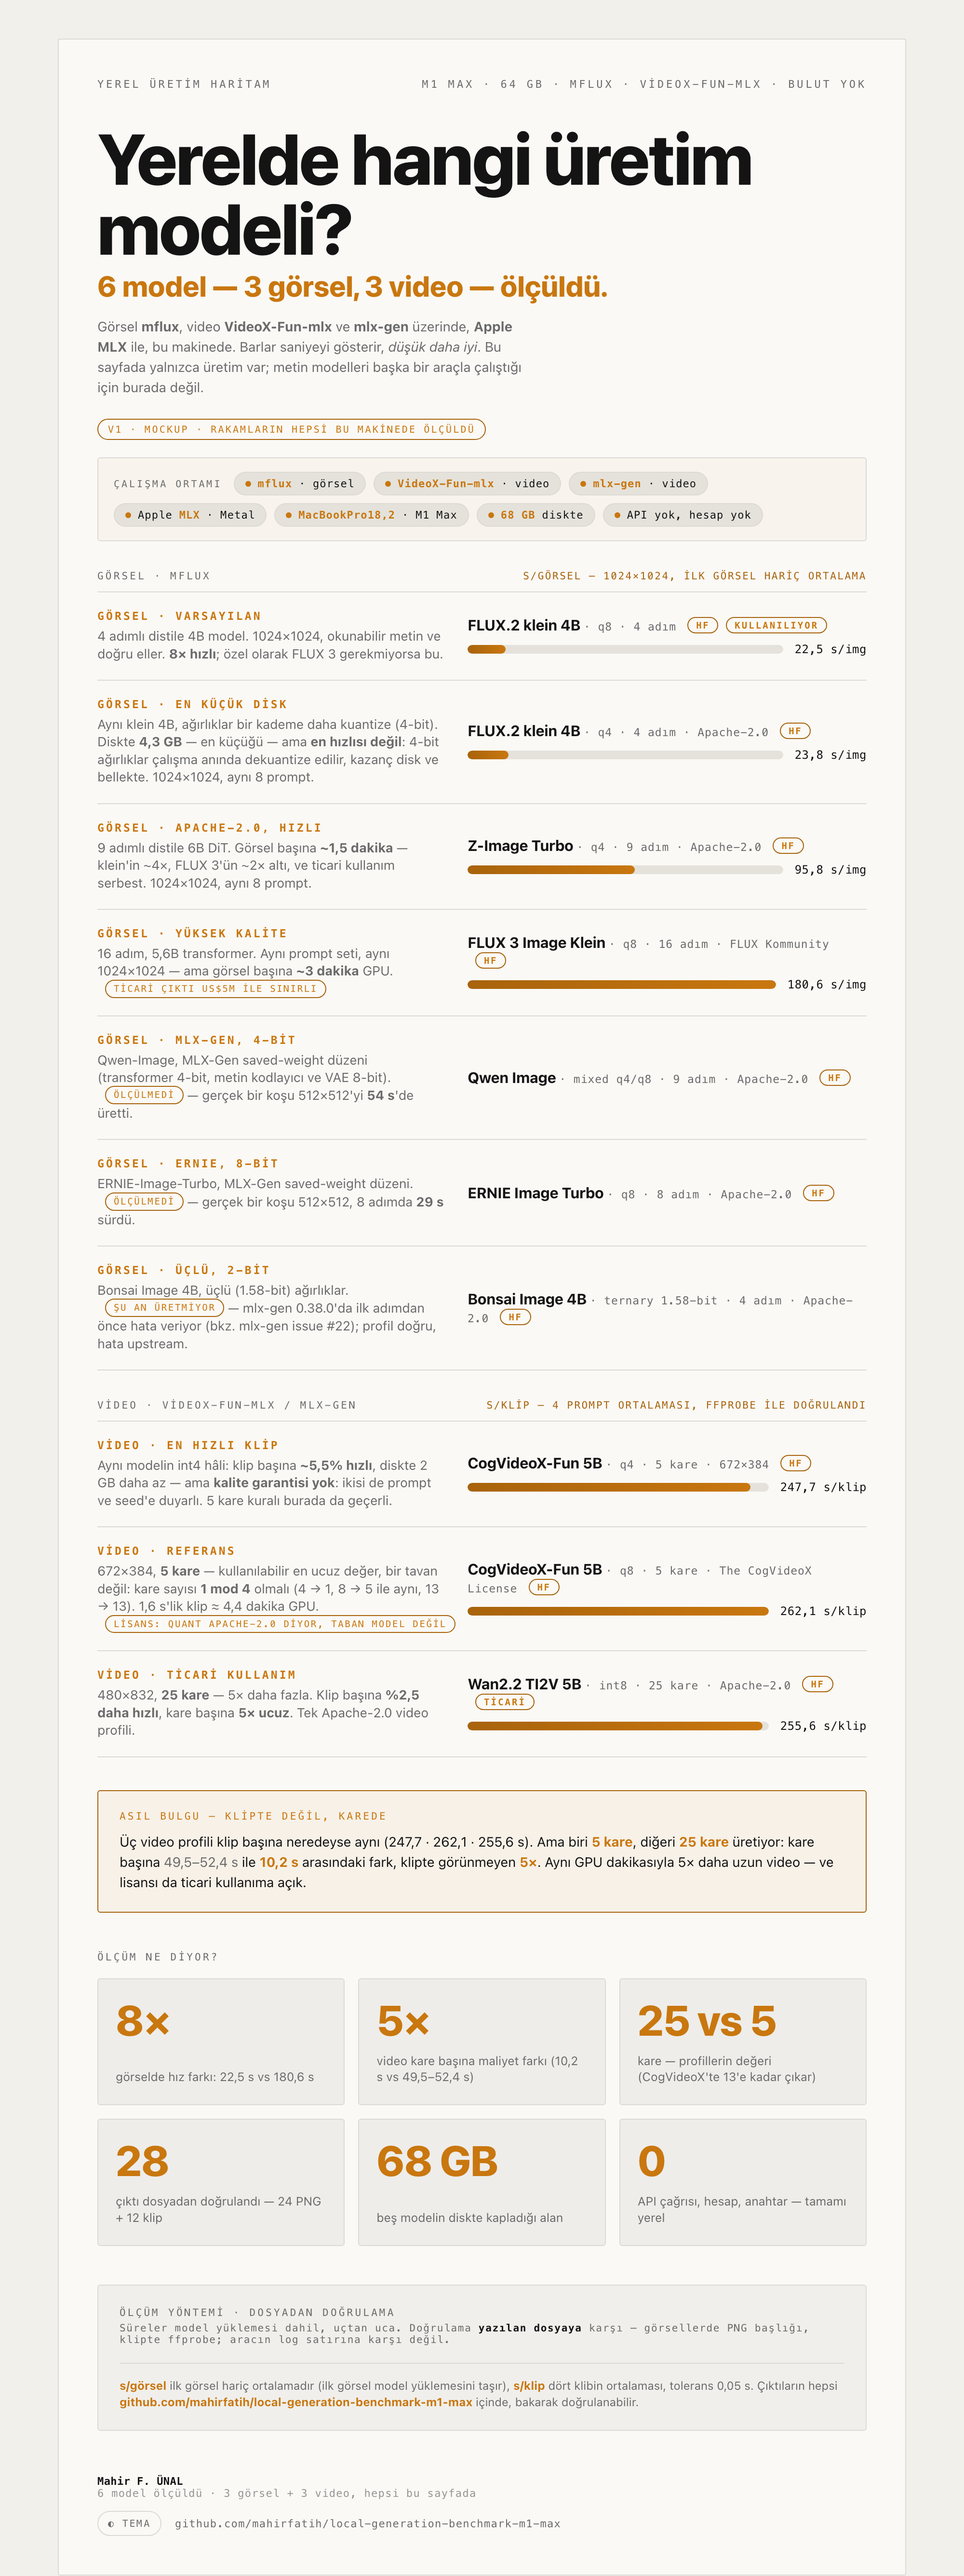
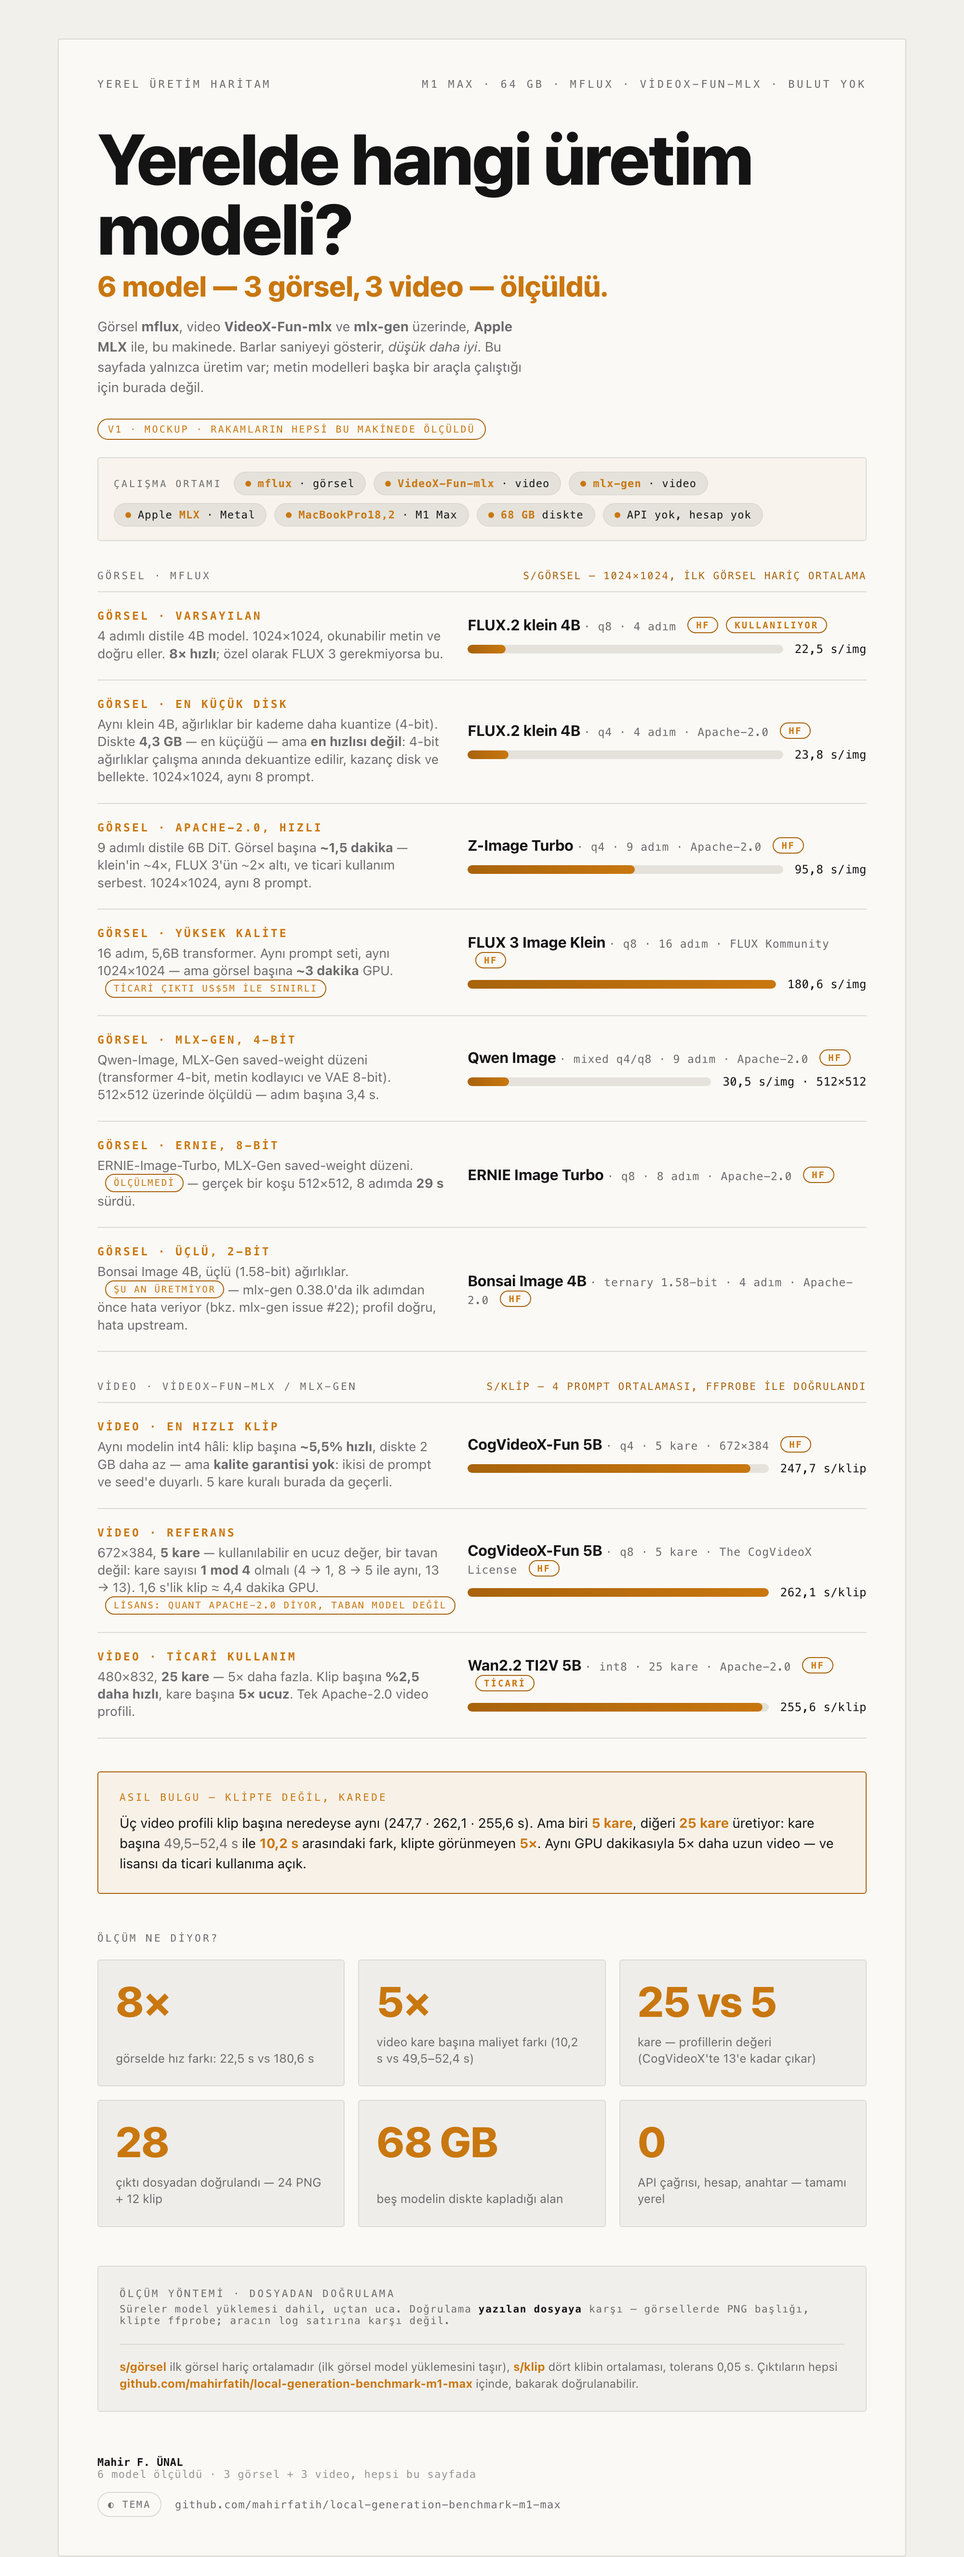
feat: benchmark qwen-image-4bit over the eight prompts
8/8 images written and verified at 512x512, 9 steps: 30.5 s/img and
3.4 s/step, mean with the first dropped. The eight PNGs, the evidence
page and the raw seconds are committed; test.sh step 9 derives the
published figure from them, so the number cannot drift from the data.

Qwen renders a quarter of the pixels the mflux rows do, so the README
compares it per step rather than per image.

diff --git a/docs/diagrams/model-map/model-map.html b/docs/diagrams/model-map/model-map.html
@@ -260,10 +260,11 @@
         <div class="task">
           <div class="k">Görsel · MLX-Gen, 4-bit</div>
           <div class="d">Qwen-Image, MLX-Gen saved-weight düzeni (transformer 4-bit, metin kodlayıcı ve VAE
-            8-bit). <span class="warn">ölçülmedi</span> — gerçek bir koşu 512×512'yi <b>54 s</b>'de üretti.</div>
+            8-bit). 512×512 üzerinde ölçüldü — adım başına 3,4 s.</div>
         </div>
         <div class="pick">
           <div class="m">Qwen Image <span class="tiny">· mixed q4/q8 · 9 adım · Apache-2.0</span> <a class="hf" href="https://huggingface.co/AbstractFramework/qwen-image-4bit">HF</a></div>
+          <div class="bar"><div class="track"><div class="fill" style="width:17%"></div></div><span class="val">30,5 s/img · 512×512</span></div>
         </div>
       </div>
 

diff --git a/docs/reference/PROFILES.md b/docs/reference/PROFILES.md
@@ -80,12 +80,14 @@ two FLUX profiles keep the `float16` value from the run that produced their figu
 
 ## Image generation through mlx-gen (not mflux)
 
-Two image models ship in
+Three image models ship in
 [`profiles/mflux-profiles.json`](../../profiles/mflux-profiles.json) — the file
 groups *image* models, not mflux ones — but run through
 [`mlx-gen`](https://github.com/lpalbou/mlx-gen)'s `mlxgen` console script, with
-their own `invoke` argv. They are **not** benchmarked yet: their timings and peak
-memory are unmeasured, and the app shows them as such rather than quoting a guess.
+their own `invoke` argv. `qwen-image-4bit` is now **benchmarked** over the same 8
+prompts: **30.5 s/img** (3.4 s/step, 9 steps) at 512×512 — a quarter of the pixels
+the mflux rows render, so its image time is not comparable to theirs, only its
+per-step cost is. ERNIE and Bonsai stay unmeasured for now.
 
 | Setting | `bonsai-image-ternary-2bit` | `ernie-image-turbo-q8` | `qwen-image-4bit` |
 | :--- | ---: | ---: | ---: |
@@ -139,8 +141,11 @@ row until that is fixed, not a misconfigured one. It is reported as
 [mlx-gen issue #22](https://github.com/lpalbou/mlx-gen/issues/22).
 
 `ernie-image-turbo-q8` and `qwen-image-4bit` were each run end to end on the same
-machine: ERNIE 29 s for 512×512 at 8 steps, Qwen Image 54 s for 512×512 at 9
-steps.
+machine. ERNIE produced 512×512 in 29 s at 8 steps in a smoke run;
+`qwen-image-4bit` is benchmarked over the full 8-prompt set: **30.5 s/img** and
+**3.4 s/step** at 512×512, 9 steps, all 8 images written and verified
+(`reference/image-benchmark-qwen.json`,
+[`evidence/image-benchmark-qwen.md`](../../evidence/image-benchmark-qwen.md)).
 
 ## Video profiles
 

diff --git a/evidence/image-benchmark-qwen.md b/evidence/image-benchmark-qwen.md
@@ -1,0 +1,16 @@
+# Image generation — seconds per image
+
+**Date:** 2026-11-21. One `mflux-generate-*` process per prompt, run through [mflux](https://github.com/filipstrand/mflux), which is separate from the oMLX text server. Time is end-to-end wall clock, **model load included** (the CLI is one-shot).
+
+| Model (profile) | Licence | Image | s/img | s/step | Size | OK |
+|---|---|---:|---:|---:|---|:---:|
+| `AbstractFramework/qwen-image-4bit` (qwen-image-4bit) | apache-2.0 | `photoreal-market` | 29.46 | 3.27 | 512×512, 0.4 MB | ✅ |
+| `AbstractFramework/qwen-image-4bit` (qwen-image-4bit) | apache-2.0 | `portrait-hands` | 30.62 | 3.4 | 512×512, 0.3 MB | ✅ |
+| `AbstractFramework/qwen-image-4bit` (qwen-image-4bit) | apache-2.0 | `text-poster` | 30.57 | 3.4 | 512×512, 0.3 MB | ✅ |
+| `AbstractFramework/qwen-image-4bit` (qwen-image-4bit) | apache-2.0 | `composition-stilllife` | 30.67 | 3.41 | 512×512, 0.3 MB | ✅ |
+| `AbstractFramework/qwen-image-4bit` (qwen-image-4bit) | apache-2.0 | `stylised-risograph` | 30.48 | 3.39 | 512×512, 0.4 MB | ✅ |
+| `AbstractFramework/qwen-image-4bit` (qwen-image-4bit) | apache-2.0 | `product-headphones` | 30.33 | 3.37 | 512×512, 0.2 MB | ✅ |
+| `AbstractFramework/qwen-image-4bit` (qwen-image-4bit) | apache-2.0 | `photoreal-architecture` | 30.36 | 3.37 | 512×512, 0.3 MB | ✅ |
+| `AbstractFramework/qwen-image-4bit` (qwen-image-4bit) | apache-2.0 | `text-signage` | 30.69 | 3.41 | 512×512, 0.3 MB | ✅ |
+
+_s/img is what a person waits for one finished image on this machine. Because each CLI call reloads the model, it is a cold number; the steady-state per-step cost is the `s/step` column._

diff --git a/CHANGELOG.md b/CHANGELOG.md
@@ -13,12 +13,14 @@ date-based snapshots rather than semver releases.
   image models, so they live in the image file, but they run through **`mlx-gen`**,
   not mflux — each carries its own `invoke` and an explicit
   `"runner": "mlx-gen"`, and none takes `--base-model` or `--compute-precision`.
-  **Not benchmarked yet**: no timing or peak-memory row, and the tables leave them
-  out rather than guessing.
   - `qwen-image-4bit` is Qwen-Image in the MLX mixed q4/q8 saved-weight layout —
-    the transformer at 4-bit, the text encoder and VAE at 8-bit. A real run on
-    this machine produced a 512×512 image in **54 s** at 9 steps.
-  - `ernie-image-turbo-q8` was run end to end at **29 s** for 512×512 at 8 steps.
+    the transformer at 4-bit, the text encoder and VAE at 8-bit. **Benchmarked**
+    over the full 8-prompt set at 512×512: **30.5 s/img**, 3.4 s/step, 9 steps, all
+    8 images written and verified —
+    [`reference/image-benchmark-qwen.json`](reference/image-benchmark-qwen.json) and
+    [`evidence/image-benchmark-qwen.md`](evidence/image-benchmark-qwen.md).
+  - `ernie-image-turbo-q8` was run end to end at **29 s** for 512×512 at 8 steps
+    (a smoke run, not a benchmark row).
   - **`bonsai-image-ternary-2bit` does not run** on `mlx-gen 0.38.0`: the Bonsai
     model's own initializer never builds `compiled_predict_cache`, which the
     `Flux2Klein` generation path it inherits then reads, so every run raises

diff --git a/README.md b/README.md
@@ -207,6 +207,11 @@ written PNG verified.
 | [`z-image-turbo-mflux-q4`](https://huggingface.co/mflux-community/z-image-turbo-mflux-q4) (`z-image-turbo-q4`) | Apache-2.0 | 95.8 | 10.6 | 9 | 1024×1024 |
 | [`flux-3-image-klein-base-mflux-q8`](https://huggingface.co/mflux-community/flux-3-image-klein-base-mflux-q8) (`flux3-klein-q8`) | FLUX Kommunity | 180.6 | 11.3 | 16 | 1024×1024 |
 
+`qwen-image-4bit` is measured too, but at **512×512** rather than 1024×1024, so it is
+not in the table above: `AbstractFramework/qwen-image-4bit` runs through **mlx-gen**,
+not mflux, and its **30.5 s/img** (3.4 s/step, 9 steps) buys a quarter of the pixels
+the mflux rows do. Compare it with `z-image-turbo-q4` per step, not per image.
+
 ```mermaid
 xychart-beta
     title "Seconds per image (lower is better, model load included)"

diff --git a/docs/diagrams/model-map/README.md b/docs/diagrams/model-map/README.md
@@ -13,7 +13,8 @@ what it cost in seconds on this machine.
 Two bands, because the two units are not comparable. Images: seconds per 1024×1024 image
 over mflux — 22.5 s for FLUX.2 klein (q8), 23.8 s for its 4-bit sibling (smallest on disk
 but not the fastest), 95.8 s for Z-Image Turbo and 180.6 s for FLUX 3, an
-8× spread. Video:
+8× spread — plus three mlx-gen models at 512×512, of which Qwen Image is the measured one:
+30.5 s/img, 3.4 s/step. Video:
 seconds per clip over VideoX-Fun-mlx and mlx-gen — 247.7 / 262.1 / 255.6 s, which looks like
 a tie until you count frames: 5 frames against 25, so 49.5–52.4 s per frame against 10.2 s.
 
